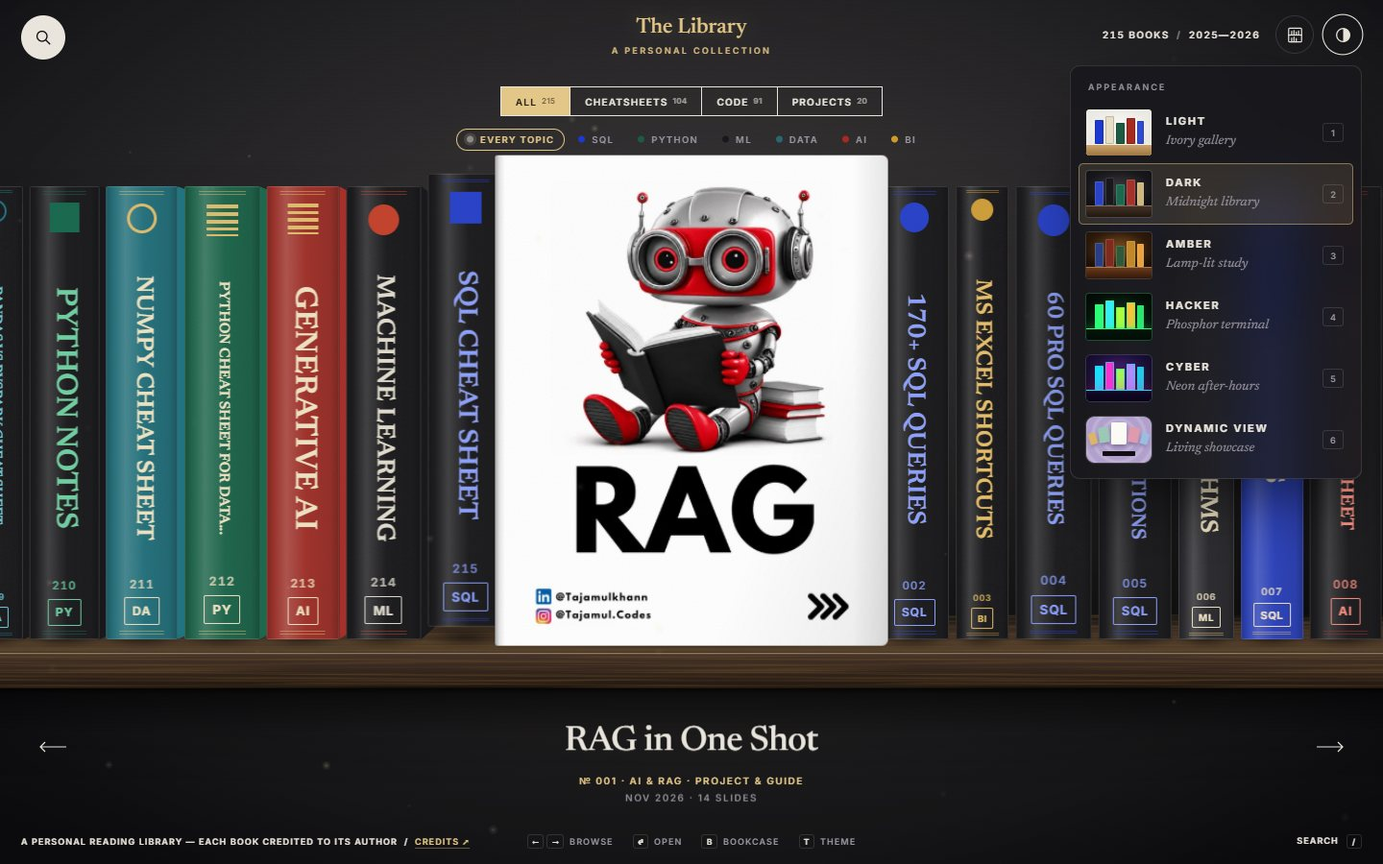
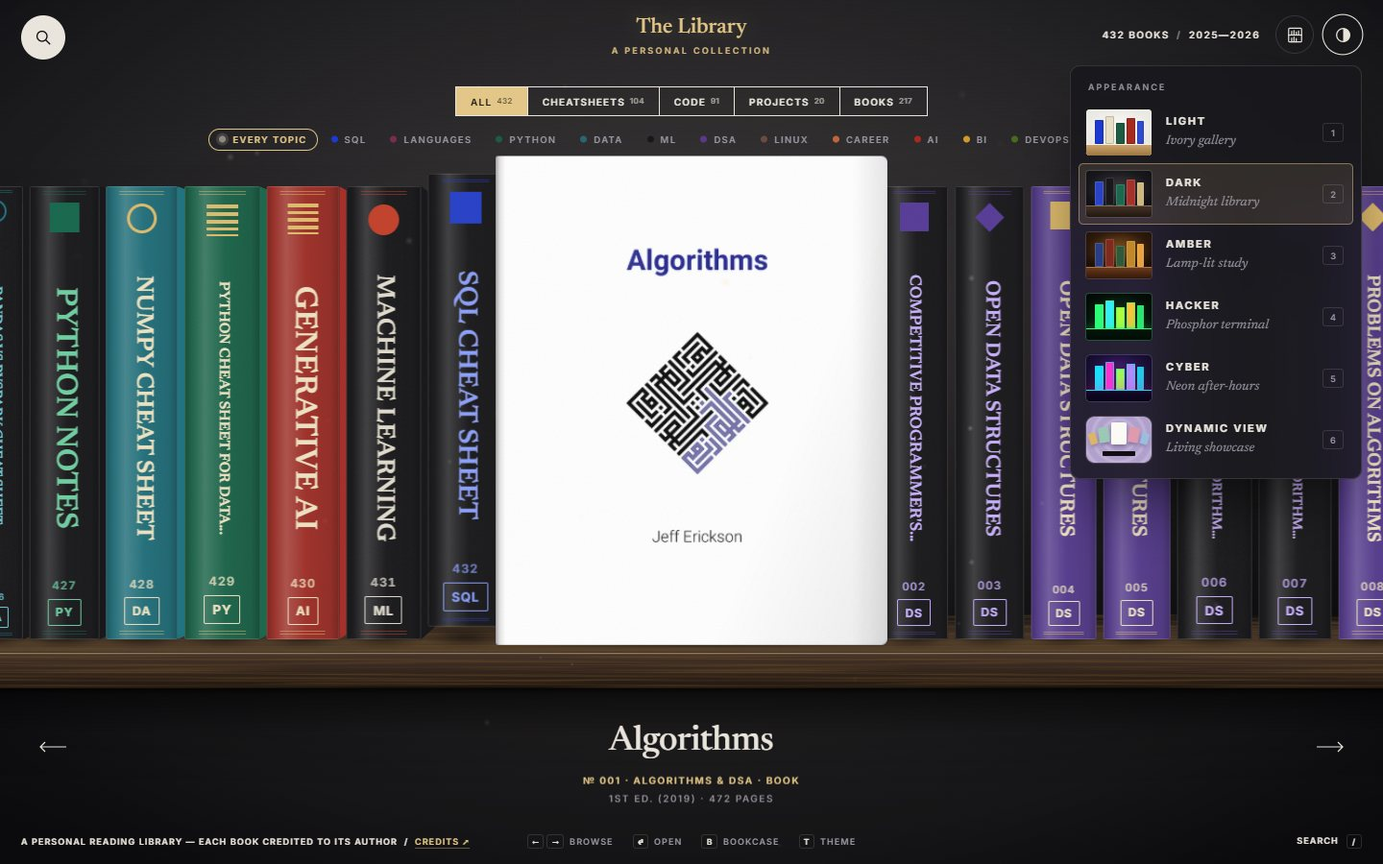
Dynamic View: support the full-length books and polish small screens
- PDF/EPUB books show pages, format and licence on the facts page, read
  screen, stack totals and reading list; the new shelves get room colours
- Phones: the book shrinks to clear long author and licence credits,
  titles on cards and swatches fit without splitting words, and the topic
  menu stays on screen
- The theme picker scrolls on short screens, so all six themes are reachable
- Cover tones and README screenshots regenerated for all 432 books

diff --git a/_site/js/dynamic.js b/_site/js/dynamic.js
@@ -38,18 +38,28 @@ const MONTHS = ['Jan', 'Feb', 'Mar', 'Apr', 'May', 'Jun', 'Jul', 'Aug', 'Sep', '
 const fmtDate = iso => { const [y, m] = iso.split('-'); return MONTHS[+m - 1] + ' ' + y; };
 const store = { get(k) { try { return localStorage.getItem(k); } catch (_) { return null; } }, set(k, v) { try { localStorage.setItem(k, v); } catch (_) {} } };
 const app = () => window.__lib;
-const slidesText = n => n + (n === 1 ? ' slide' : ' slides');
+// full-length books (PDF / EPUB) carry a `doc` record and count pages; the posts count slides
+const count = (n, word) => `${n.toLocaleString('en')} ${word}${n === 1 ? '' : 's'}`;
+const amount = b => count(b.slides, b.doc ? 'page' : 'slide');
+function total(ids) {                                // "472 pages · 24 slides"
+  let pages = 0, slides = 0;
+  ids.forEach(id => { const b = BOOK.get(id); if (b.doc) pages += b.slides; else slides += b.slides; });
+  return [pages && count(pages, 'page'), (slides || !pages) && count(slides, 'slide')].filter(Boolean).join(' · ');
+}
+const tagsOf = b => Array.from(new Set(b.tags));
 const topicInfo = k => (LIB.topics || []).find(t => t.key === k) || { key: k, label: k, chip: k };
 const typeInfo = k => (LIB.types || []).find(t => t.key === k) || { key: k, label: k };
 const coverSrc = b => enc(HIDPI ? b.cover : b.thumb);
 const GENERIC = /^(SQL|AI|BI|ML|Data|Python|Career|General) (Notes|Cheat Sheet|Guide|Book)$/;
-const headline = b => GENERIC.test(b.short) && b.title.length <= 34 ? b.title : b.short;   // big type: the short title, unless it says too little
+// big type: the short title, unless it says too little (a post's generic label, or one edition among several)
+const headline = b => (b.doc ? b.title.length <= 40 : GENERIC.test(b.short) && b.title.length <= 34) ? b.title : b.short;
 const slideSrc = (b, i) => enc(b.dir + '/' + b.files[i]);
 
 /* ── colour: every book gets a room colour, taken from its cover where it has one ── */
 const PALETTE = { lav: '#b3a2cf', gold: '#deb76a', cocoa: '#c7a582', mint: '#9dcbb9', rose: '#e39caf', sky: '#9dbfe2', coral: '#eba58a', sage: '#b7c78e', peri: '#a8b0e1', aqua: '#90c8cc' };
 const CYCLE = ['lav', 'gold', 'mint', 'rose', 'sky', 'cocoa', 'sage', 'coral', 'peri', 'aqua'];
-const BY_TOPIC = { sql: ['sky', 'lav'], python: ['mint', 'gold'], ml: ['lav', 'sage'], ai: ['coral', 'peri'], bi: ['gold', 'cocoa'], data: ['aqua', 'sage'], career: ['sage', 'cocoa'], other: ['cocoa', 'peri'] };
+const BY_TOPIC = { sql: ['sky', 'lav'], python: ['mint', 'gold'], ml: ['lav', 'sage'], ai: ['coral', 'peri'], bi: ['gold', 'cocoa'], data: ['aqua', 'sage'], career: ['sage', 'cocoa'],
+  code: ['rose', 'peri'], dsa: ['peri', 'lav'], devops: ['sage', 'aqua'], linux: ['cocoa', 'gold'], security: ['coral', 'rose'], other: ['cocoa', 'peri'] };
 const family = h => h < 0 ? null : h < 10 || h >= 322 ? 'rose' : h < 30 ? 'coral' : h < 66 ? 'gold' : h < 100 ? 'sage' : h < 172 ? 'mint' : h < 196 ? 'aqua' : h < 218 ? 'sky' : h < 250 ? 'peri' : 'lav';
 function candidates(b) {
   const h = HUES[b.id] || [-1, -1], start = hash(b.id) % CYCLE.length;
@@ -146,7 +156,7 @@ const TEMPLATE = `
   <section class="dv-sec dv-shop" aria-label="Pick up a book">
     <div class="dv-shop-in">
       <h2 class="dv-h2"><span class="ln" style="--i:0"><span>Pick up</span></span><span class="ln" style="--i:1"><span>a book</span></span></h2>
-      <div class="dv-aside"><p>Five books, same sharp notes. Pick your favourite, or stack a few for later.</p><button class="dv-more" type="button">${I.again}Five more</button></div>
+      <div class="dv-aside"><p>Five picks from the shelf. Open your favourite, or stack a few for later.</p><button class="dv-more" type="button">${I.again}Five more</button></div>
       <div class="dv-cards"></div>
     </div>
   </section>
@@ -248,11 +258,8 @@ function measure() {
   const from = head + H * .02 + Math.min(W * .08, H * .042) * 2.32 + 6, to = H - H * .028 - 92;
   const sh = Math.round(narrow ? Math.min(H * .41, W * .62 / .8, (to - from) / 1.15) : Math.min(H * (short ? .64 : .665), W * .35 / .8)), sw = Math.round(sh * .8);
   const sx = Math.round(narrow ? W * .5 : W * .565), sy = Math.round(narrow ? (from + to) / 2 : short ? head + (H - head) * .49 : H * .525);
-  // ...and on the last step it moves up to make room for the title and the Read button
-  const ctaH = 2.24 * clamp(W * .05, 17, 26) + 3.4 * clamp(H * .016, 11, 18) + clamp(H * .066, 48, 70) + 30;
-  const lift = narrow ? Math.max(0, sy + sh * .61 - (H - H * .035 - ctaH)) : 0;
   const k = clamp(window.devicePixelRatio || 1, 1, 2);                    // 3D books are built k times larger (see dynamic.css)
-  Object.assign(M, { W, H, narrow, short, tall, head, cw, ch, carY, goY, base, nameY, sw, sh, sx, sy, lift, k, P: ch * 3.8, spread: narrow ? SPREAD_N : SPREAD_W });
+  Object.assign(M, { W, H, narrow, short, tall, head, cw, ch, carY, goY, base, nameY, sw, sh, sx, sy, k, P: ch * 3.8, spread: narrow ? SPREAD_N : SPREAD_W });
   const st = E.dv.style;
   for (const [name, v] of Object.entries({ dvh: H, head, cw, ch, sw, sh, sx, sy, 'car-y': carY, 'go-y': goY, 'name-y': nameY })) st.setProperty('--' + name, v + 'px');
   st.setProperty('--k', k);
@@ -264,6 +271,15 @@ function measure() {
     for (const [k, v] of Object.entries({ x: x + '%', y: y + '%', s, d: d + 'px', blur: blur + 'px', r: r + 'deg', t: t + 's' })) el.setProperty('--' + k, v);
   });
   tops();
+  fitRead();
+}
+/* narrow screens, last step: the book moves up (and shrinks if it must) to clear the title, credits and Read button */
+function fitRead() {
+  M.lift = 0; M.fit = 1;
+  if (!M.narrow) return;
+  const floor = M.H * .965 - E.readwrap.offsetHeight - 8;                 // laid out even while hidden
+  M.fit = clamp((floor - M.head) / (M.sh * 1.22), .5, 1);                 // 1.22: the tilted book is taller than the book
+  M.lift = Math.max(0, M.sy + M.sh * .61 * M.fit - floor);
 }
 function tops() { M.shopTop = E.shop.offsetTop; M.stackTop = E.stack.offsetTop; M.max = Math.max(0, E.scroll.scrollHeight - E.scroll.clientHeight); }
 
@@ -369,7 +385,7 @@ function setTitle(b, instant) {
   if (live && live.dataset.id === b.id && !instant) return;
   const el = document.createElement('span'); el.className = 'dv-name-l'; el.dataset.id = b.id; el.innerHTML = splitChars(headline(b));
   box.appendChild(el); fitTitle(el);
-  E.sr.textContent = `${b.title}. ${topicInfo(b.topic).label}, ${slidesText(b.slides)}.`;
+  E.sr.textContent = `${b.title}. ${topicInfo(b.topic).label}, ${amount(b)}.`;
   const olds = $$('.dv-name-l', box).filter(x => x !== el);
   olds.forEach(o => o.classList.add('out'));
   if (instant || REDUCE) { olds.forEach(o => o.remove()); return; }
@@ -402,7 +418,7 @@ const CLOSEUPS = ['12% 8%', '88% 38%', '24% 72%', '76% 92%', '50% 52%'];
 function pieces(b, n) {
   const pages = []; for (let i = 1; i < b.files.length && pages.length < 8; i++) pages.push(i);
   if (!pages.length) pages.push(0);
-  const labels = [...b.tags.slice(0, 6).map(t => '#' + t), topicInfo(b.topic).label, slidesText(b.slides), typeInfo(b.type).label];
+  const labels = Array.from(new Set([...tagsOf(b).slice(0, 6).map(t => '#' + t), topicInfo(b.topic).label, amount(b), b.doc ? b.doc.license : typeInfo(b.type).label]));
   const out = []; let p = 0, l = 0, c = 0;
   for (let k = 0; k < n; k++) {
     if (k % 3 === 2 && l < labels.length) out.push({ label: labels[l++] });
@@ -441,11 +457,14 @@ function barcode(seed) {
   return `<svg viewBox="0 0 100 30" preserveAspectRatio="none" fill="currentColor">${r}</svg>`;
 }
 function factsHTML(b) {
-  const rows = [['Slides', b.slides], ['Topic', topicInfo(b.topic).label], ['Format', typeInfo(b.type).label], ['Added', fmtDate(b.date)], ['Shelf no.', pad(b.n, 3)], ['Author', b.author || 'Unknown'], ['Filler', '0 g']];
-  const digits = (String(hash(b.id)) + String(hash(b.title))).slice(0, 12);
+  const d = b.doc, topic = topicInfo(b.topic).label, n = b.slides.toLocaleString('en');
+  const rows = d
+    ? [['Pages', n], ['Topic', topic], ['Format', `${d.fmt} · ${d.mb} MB`], d.edition ? ['Edition', d.edition] : ['Added', fmtDate(b.date)], ['Licence', d.license], ['Author', b.author || 'Unknown'], ['Shelf no.', pad(b.n, 3)]]
+    : [['Slides', n], ['Topic', topic], ['Format', typeInfo(b.type).label], ['Added', fmtDate(b.date)], ['Shelf no.', pad(b.n, 3)], ['Author', b.author || 'Unknown'], ['Filler', '0 g']];
+  const digits = (String(hash(b.id)) + String(hash(b.title))).slice(0, 12), tags = tagsOf(b);
   return `<div class="dv-facts"><p class="f-brand">The Library</p><p class="f-sub">${esc(b.short)}</p>` +
     `<div class="f-label"><b>Book facts</b><small>Serving size: 1 book${b.handle ? ' · ' + esc(b.handle) : ''}</small><dl>${rows.map(([k, v]) => `<div><dt>${k}</dt><dd>${esc(v)}</dd></div>`).join('')}</dl></div>` +
-    (b.tags.length ? `<p class="f-tags">Tags: ${esc(b.tags.join(', '))}</p>` : '') +
+    (tags.length ? `<p class="f-tags">Tags: ${esc(tags.join(', '))}</p>` : '') +
     `<div class="f-code">${barcode(b.id)}<span>${digits}</span></div><p class="f-foot">Packed, not padded</p></div>`;
 }
 function paintFlyer() {
@@ -458,15 +477,16 @@ function paintFlyer() {
 function setInside(b) {
   if (D.keys.inside === b.id) return;
   D.keys.inside = b.id;
-  const tags = b.tags.slice(0, 3).map(t => '#' + t).join(' ') || topicInfo(b.topic).label;
-  E.claims[0].textContent = b.slides === 1 ? 'One page,\nall signal' : 'Real notes,\nfirst';
-  E.claims[1].textContent = 'Packed,\nnot padded';
-  D.caps = [`${tags}\nNothing you can’t learn.`, `${slidesText(b.slides)}, no filler.\nJust the good part.`, '', ''];
+  const d = b.doc, tags = tagsOf(b).slice(0, 3).map(t => '#' + t).join(' ') || topicInfo(b.topic).label;
+  E.claims[0].textContent = d ? 'The whole\nbook, free' : b.slides === 1 ? 'One page,\nall signal' : 'Real notes,\nfirst';
+  E.claims[1].textContent = d ? 'Cover to\ncover' : 'Packed,\nnot padded';     // two short lines: they sit beside the book
+  D.caps = [`${tags}\nNothing you can’t learn.`, d ? `${amount(b)}.\n${d.fmt}, ${d.mb} MB.` : `${amount(b)}, no filler.\nJust the good part.`, '', ''];
   E.cap.textContent = D.caps[Math.max(0, D.step)] || '';
   E.readTitle.textContent = b.title;
-  E.readBy.innerHTML = (b.author ? `By ${esc(b.author)}${b.handle ? ' · ' + esc(b.handle) : ''}` : '') +
-    (b.source ? `<br><a href="${esc(b.source)}" target="_blank" rel="noopener">View on ${esc(b.sourceLabel || 'source')} ↗</a>` : '');
-  E.readBtn.firstElementChild.textContent = b.slides === 1 ? 'Read this page' : `Read all ${b.slides} slides`;
+  E.readBy.innerHTML = (b.author ? `By ${esc(b.author)}${b.handle ? ' · ' + esc(b.handle) : ''}` : '') + (d ? `<br>${esc(d.license)}` : '') +
+    (b.source ? `<br><a href="${esc(b.source)}" target="_blank" rel="noopener">${d ? 'Official download' : 'View on ' + esc(b.sourceLabel || 'source')} ↗</a>` : '');
+  E.readBtn.firstElementChild.textContent = d ? (d.fmt === 'EPUB' ? 'Open the EPUB' : 'Read the book') : b.slides === 1 ? 'Read this page' : `Read all ${b.slides} slides`;
+  fitRead();                                        // long credits take more room under the book
 }
 
 /* ── the pages that orbit the book ─────────────────────── */
@@ -514,8 +534,9 @@ function stage(now) {
   const orb = passing ? 0 : clamp(1 - Math.abs(q - 2) / .8, 0, 1);
   if (flying) {
     const e1 = inOut(t1), e2 = inOut(t2), live = REDUCE ? 0 : e1 * (1 - e2);
-    const rest = M.sy - M.lift * smooth(clamp((q - 2.3) / .6, 0, 1));
-    let x = lerp(M.W / 2, M.sx, e1), y = lerp(M.carY, rest, e1), s = lerp(M.ch / M.sh, 1, e1);
+    const last = smooth(clamp((q - 2.3) / .6, 0, 1));                      // easing into the last step
+    const rest = M.sy - M.lift * last;
+    let x = lerp(M.W / 2, M.sx, e1), y = lerp(M.carY, rest, e1), s = lerp(M.ch / M.sh, lerp(1, M.fit, last), e1);
     let ry = lerp(0, turnAt(q), e1), rz = lerp(0, TILT, e1), rx = 0;
     ry += live * (Math.sin(t * .85) * 5 + Math.sin(t * 1.05) * 30 * orb);       // it never sits perfectly still
     rz += live * Math.sin(t * .67) * 1.2; rx = live * Math.sin(t * .53) * 2.4; y += live * Math.sin(t * 1.25) * H * .007;
@@ -584,7 +605,15 @@ function setShop(force) {
       `<button class="dv-add" type="button" data-pick="${b.id}" aria-pressed="false" aria-label="Add ${esc(b.title)} to your stack">${I.plus}${I.check}</button></article>`;
   }).join('');
   D.hidCard = null;
-  syncPicks(); centreCards();
+  syncPicks(); fitNames('.dv-card h3', 11); centreCards();
+}
+/* a title set in capitals never splits inside a word: shrink its type to fit (CSS ellipsis past the minimum) */
+function fitNames(sel, min) {
+  const els = $$(sel, E.dv);
+  els.forEach(el => { el.style.fontSize = ''; });
+  els.map(el => [el, el.clientWidth, el.scrollWidth]).forEach(([el, room, need]) => {
+    if (room && need > room) el.style.fontSize = Math.max(min, parseFloat(getComputedStyle(el).fontSize) * room / need * .97).toFixed(2) + 'px';
+  });
 }
 function centreCards() {
   const c = E.cards, mid = c.children[c.children.length >> 1];
@@ -600,7 +629,7 @@ function setStack(force) {
     return `<button class="dv-sw" type="button" data-pick="${b.id}" aria-pressed="false" style="--tone:${PALETTE[D.tones[i]]};--i:${k}" title="${esc(b.title)}" aria-label="${esc(b.title)}">` +
       `<span class="dv-sw-t"><img src="${enc(b.thumb)}" alt="" decoding="async" draggable="false"></span><span class="dv-sw-n">${esc(b.short)}</span><span class="dv-sw-r">${I.check}</span></button>`;
   }).join('');
-  syncPicks();
+  syncPicks(); fitNames('.dv-sw-n', 7);
 }
 const need = () => Math.min(3, Math.max(D.list.length, D.picks.filter(Boolean).length));
 function syncPicks() {
@@ -613,7 +642,6 @@ function syncPicks() {
     x.setAttribute('aria-label', b ? `Remove ${b.title}` : 'Empty place');
   });
   $$('[data-pick]', E.dv).forEach(el => el.setAttribute('aria-pressed', D.picks.includes(el.dataset.pick) ? 'true' : 'false'));
-  const slides = chosen.reduce((s, id) => s + BOOK.get(id).slides, 0);
   const label = E.add3.firstElementChild, small = E.add3.lastElementChild;
   E.add3.classList.toggle('done', D.adding);
   if (D.adding) { E.add3.disabled = true; label.textContent = 'Added to your list'; }
@@ -621,7 +649,7 @@ function syncPicks() {
     const ready = n >= want && n > 0;
     E.add3.disabled = !ready;
     label.textContent = ready ? 'Add to reading list' : `Pick ${want - n} more`;
-    small.textContent = slidesText(slides);
+    small.textContent = total(chosen);
   }
   const last = D.lastPick >= 0 && D.picks[D.lastPick] ? D.picks[D.lastPick] : chosen[chosen.length - 1];
   if (!D.adding) E.glow.style.setProperty('--dv-glow', last ? PALETTE[toneOf(last)] : '#6f918a');
@@ -704,7 +732,7 @@ function renderList() {
   E.empty.hidden = D.saved.length > 0;
   E.ul.innerHTML = D.saved.map(id => {
     const b = BOOK.get(id);
-    return `<li><img src="${enc(b.thumb)}" alt="" loading="lazy" decoding="async"><div><b>${esc(b.title)}</b><small>${slidesText(b.slides)} · ${esc(b.author || topicInfo(b.topic).label)}</small></div>` +
+    return `<li><img src="${enc(b.thumb)}" alt="" loading="lazy" decoding="async"><div><b>${esc(b.title)}</b><small>${amount(b)} · ${esc(b.author || topicInfo(b.topic).label)}</small></div>` +
       `<span class="acts"><button type="button" data-read="${id}">Read</button><button type="button" data-remove="${id}" aria-label="Remove ${esc(b.title)}">${I.close}</button></span></li>`;
   }).join('');
 }
@@ -1037,7 +1065,10 @@ function bind() {
     else if (D.on) { D.force = true; D.lastT = performance.now(); }
   });
 }
-function refit() { const el = E.name.querySelector('.dv-name-l:not(.out)'); if (el) fitTitle(el); }
+function refit() {                                    // after a resize, or once the display face has arrived
+  const el = E.name.querySelector('.dv-name-l:not(.out)'); if (el) fitTitle(el);
+  fitNames('.dv-card h3', 11); fitNames('.dv-sw-n', 7);
+}
 
 /* ── on and off ────────────────────────────────────────── */
 function activate(opts = {}) {

diff --git a/_site/js/tones.js b/_site/js/tones.js
@@ -1,1 +1,1 @@
-window.LIBRARY_TONES = {"DfQwnqbE5LB":[357,-1],"DfLxV5qgFgv":[0,-1],"DfFu5hWhDzu":[-1,-1],"DfBXSvDE1jW":[0,-1],"De-ycXiASYl":[359,-1],"De8SPdjoGut":[-1,-1],"De0gt6FiN6h":[0,-1],"Dex8wJygf_w":[359,-1],"DeveFXWAXjI":[1,-1],"Desyo7qgRdy":[359,214],"Def2sWwgbTH":[214,359],"DeQV6e5AWhq":[16,-1],"Dd5NlO7k0o3":[359,-1],"Dd2sRIxAXMK":[214,44],"DdxmDm9ATWO":[0,-1],"DdsXXpmEx1x":[-1,-1],"DdpyekcE7sX":[0,-1],"DdnNw1kEwe4":[359,-1],"Ddko7gOk5M6":[359,-1],"DdgltgRBzOy":[-1,-1],"DdaUAPdE5ye":[359,-1],"DdL3AfgAbw1":[16,-1],"Dc-KfsPgfjo":[359,-1],"Dcz1wJBgaRi":[359,-1],"DculXPAAWO3":[359,-1],"Dcm7BBuEoO8":[-1,-1],"DclO0RcgeUI":[-1,-1],"Dciq7mFBmaz":[-1,-1],"DcZ_jG3k1dL":[37,-1],"DcTObOLgcUx":[357,-1],"DcNHnWOErIb":[359,34],"DcKtrhHgS_9":[174,359],"DcDyZnqAXO8":[357,-1],"DcAStdMgchp":[36,359],"Db4gYeTAeJM":[359,-1],"DbxwjZEBcju":[-1,-1],"DbuawmaAak3":[16,-1],"Dbrpq6MASVk":[-1,-1],"DbpFfRXge3o":[327,35],"DbmhUuQAWpi":[33,-1],"Dbj7Gy1gTcE":[4,-1],"DbhaHy0gXWJ":[2,-1],"DbezaEVgX_T":[359,-1],"DbXEhipAXBA":[359,-1],"DbVTqb3gcLq":[45,359],"DbR3qe2gbXg":[359,-1],"DbFA7WsAQ9i":[25,-1],"DbCa44ckvTi":[41,-1],"Da2KbydhD8Z":[-1,-1],"DawkALjAag-":[204,-1],"Dat35P4AWgk":[24,-1],"Daov6k_gf2V":[359,-1],"DajtHzAAZvh":[-1,-1],"DaeZfNLgeDM":[46,359],"DaZQMvCgVhI":[-1,-1],"DaWstBfAbxt":[207,-1],"DaURh9CgaTT":[359,33],"DaPRdC_RHqW":[-1,-1],"DaLuvRyzmrt":[1,-1],"DaKQ40JAUJh":[359,295],"DaFhqfuBkpb":[-1,-1],"DaCOlsPgXrS":[359,33],"DZ_qvtWgYA2":[359,-1],"DZ9G4KtATWJ":[45,-1],"DZ6up2KgQUV":[-1,-1],"DZwgcMzAYYZ":[-1,-1],"DZeDFnagUwv":[0,-1],"DZTuYipAZt7":[359,226],"DZRJkXyE9lT":[45,359],"DZOluK4gbba":[214,59],"DZNEq6AgVMY":[-1,-1],"DZMABm7gTLl":[359,-1],"DZESEodAeTW":[214,-1],"DY_PTNZAY3I":[-1,-1],"DY_HvG0gWrM":[-1,-1],"DY9P0YNge9W":[131,-1],"DY4ck7uAR0B":[16,-1],"DYyaFTqATML":[-1,-1],"DYwK1mvgPq6":[-1,-1],"DYqhtyvgeUD":[-1,-1],"DYoGS1qgRL3":[214,-1],"DYQ1puCAcoJ":[1,-1],"DYLktrQE69Z":[1,-1],"DYJGz3AE4Wm":[45,214],"DYBq3lAAbDF":[-1,-1],"DYACQwQgYbr":[359,-1],"DX6llQcge_f":[-1,-1],"DXvahbEAXCp":[-1,-1],"DXsyP6NAWCp":[359,-1],"DXnp8QLAdTR":[359,33],"DXjMwtZgZz8":[46,-1],"DXf8RsJgatd":[359,-1],"DXdcNqkgSvW":[-1,-1],"DXa4BiAAQdp":[211,-1],"DXYP5KWEaCl":[2,-1],"DXVoiudgbqC":[-1,-1],"DXOJklogZYO":[359,-1],"DXI14pOgflE":[-1,-1],"DXA9DxCAfS1":[-1,-1],"DW8EKYmASeX":[-1,-1],"DW5YEWdAbGz":[48,-1],"DW2zl6qAcxx":[-1,-1],"DWz-_GsAUp4":[359,-1],"DWstl71AS1e":[-1,-1],"DWns8WpAVSk":[-1,-1],"DWfu6l7Ad5M":[-1,-1],"DWd4ByGDEfF":[324,-1],"DWaVBXBAW0K":[-1,-1],"DWX_9lIgQ0P":[-1,-1],"DWVXrBgAbjt":[205,-1],"DWNlF4JgQCL":[-1,-1],"DWIe0miAdPL":[-1,-1],"DWAk2kVgZvu":[359,-1],"DV99AT-AXft":[-1,-1],"DVzoGtGgSpt":[359,-1],"DVxxskpgXXU":[-1,-1],"DVvZti6geaZ":[359,-1],"DVr6qZEgTNL":[0,-1],"DVp_o1JgQxq":[359,-1],"DVaR-vkAehM":[214,-1],"DVSVUT1gYYN":[221,-1],"DVODIEcAUKo":[-1,-1],"DVNFmbtgTJc":[-1,-1],"DVH4pjuAU7i":[44,-1],"DVATx5LgZV4":[-1,-1],"DU7HNIIE8G7":[214,-1],"DU1--4YgY2-":[-1,-1],"DUngMSIAQH7":[-1,-1],"DUZlcDKktuA":[204,38],"DUXAnccEjRH":[214,-1],"DUj_gtXEjNI":[-1,-1],"DUZsTzLks4B":[-1,-1],"DUPZFo0kq9L":[-1,-1],"DUDatZEgcjL":[214,-1],"DT-aUfAgSFx":[-1,-1],"DT4Ya_ZAXEX":[214,-1],"DTzSWGWAQ2v":[-1,-1],"DTunRAbgTK-":[359,215],"DTmMWo2AeY4":[1,-1],"DTcAs52AcZM":[-1,-1],"DTXNt4YAXpl":[354,-1],"DTKJXUcgW6t":[-1,-1],"DTEvJX0AZzi":[214,45],"DS-BDTZAb8-":[214,35],"DS66rLNgePS":[214,-1],"DS44eJtAcWh":[78,-1],"DS1wlsyAXHw":[214,-1],"DSz_-mNAYNr":[-1,-1],"DSwmkNlAX8_":[214,34],"DSrHph7gWLU":[38,204],"DSj0LVRAfVt":[44,-1],"DShoGh3AYCF":[44,-1],"DScD5x2gcTv":[204,38],"DSUlAyNAZNL":[44,-1],"DSRyyVZgTUp":[214,-1],"DSOQX4sEoDX":[-1,-1],"DSKAZO7Ad1H":[23,133],"DSEi5P1gczX":[214,-1],"DSCnpJ5AdcJ":[16,-1],"DR_3bZYAdvC":[214,158],"DR335gogSMn":[188,86],"DRzhjcogYEW":[202,-1],"DR1GgXjAdqE":[-1,-1],"DRvvwgcgbvb":[-1,-1],"DRtT8ubAdJt":[218,-1],"DRl9nbOgf_O":[34,-1],"DRjDcfbASCf":[215,26],"DRgnj3GgVAM":[359,-1],"DRd8oCeAbUt":[122,-1],"DRcR7OigVxR":[45,-1],"DRTQv9WjEJy":[-1,-1],"DRO194FEpRS":[-1,-1],"DRJLTD8gao7":[241,-1],"DQ81edlgdaC":[-1,-1],"DQ-0xrFgejm":[214,-1],"DQvyqNGAcHw":[214,-1],"DQs52xpgQmb":[215,-1],"DQl-oX3DDGI":[-1,-1],"DQlPzlEgWR_":[214,-1],"DQi4hJPAetw":[214,-1],"DQbEz-QAa6Z":[214,-1],"DQYacQKiV13":[53,-1],"DQVtgUaAdyT":[-1,-1],"DQQwAt_AYN-":[215,-1],"DQOF8pPAf_5":[214,-1],"DQGU72WAaxX":[213,-1],"DQBJdT8ARQ8":[213,33],"DP76b4xAdHF":[-1,-1],"DP5TP1FAcaJ":[215,-1],"DP2ykonAbDT":[214,-1],"DP0LUO6gV_n":[214,-1],"DPu64Q0gaM0":[214,-1],"DPsbQcqgdbX":[215,-1],"DPp6mNuAXt1":[214,-1],"DPiLSTvARWb":[214,27],"DPflM33ga_3":[214,-1],"DPaZr1AE3Gl":[214,-1],"DPX08ALAX-G":[214,-1],"DPWQ7fTAYcs":[214,-1],"DPTq9ncgTPY":[214,27],"DPP6VJVgfVL":[-1,-1],"DPMZSI2gRus":[-1,-1],"DPI63ItgcM9":[214,-1],"DPDRXegAdwA":[44,214],"DPBfg-UgTEV":[214,-1],"DO7cr7tgXmu":[214,-1],"DO43_Q-AdKc":[214,-1],"DO3L_e_AV1x":[214,-1],"DO-CHACAZDN":[-1,-1],"DO0RcRvgW8T":[39,213],"DOxM9UZEuMz":[214,-1],"DOVJU0cAXO2":[214,-1],"DOQSv2gAfYE":[214,-1],"DNDzhWOBKTe":[215,-1],"DM_4L_dhVLK":[214,-1]};
+window.LIBRARY_TONES = {"peff6462d8":[-1,-1],"p5f0e92c97":[-1,-1],"pf506fd984":[-1,-1],"p859627286":[-1,-1],"p0356676bf":[-1,-1],"pd08017240":[-1,-1],"pbf6004a78":[-1,-1],"p053ff7bbd":[-1,-1],"p6a63e4a7e":[-1,-1],"p1ee90e66e":[-1,-1],"p84b4aaa98":[-1,-1],"pe81d0bc3b":[-1,-1],"pd5528f075":[224,-1],"p79eed755e":[-1,-1],"pa54380884":[283,-1],"p7f81e3a43":[-1,-1],"paa672168e":[-1,-1],"p4655b1a83":[-1,-1],"p8e104db36":[-1,-1],"p2057a8032":[-1,-1],"pecbed6a79":[-1,-1],"pcf9aaed6c":[206,-1],"pcb71a4736":[-1,-1],"p64895c132":[209,-1],"pc014c5590":[-1,-1],"p5ef4bcbdc":[-1,-1],"p128ff7e51":[-1,-1],"pc1ab7e72d":[-1,-1],"pa02a8ac0b":[-1,-1],"pfb88b8293":[-1,-1],"p75645b47f":[-1,-1],"pe67ea01af":[-1,-1],"p760c1e03f":[-1,-1],"pa5598778f":[-1,-1],"pde15386e4":[-1,-1],"p95ee8008f":[-1,-1],"pcba7c19b7":[-1,-1],"pac0ad9976":[-1,-1],"p113b7e94e":[-1,-1],"p1d832c107":[-1,-1],"p97eb198c4":[-1,-1],"paf3b035f2":[5,-1],"p9f2e3aeb4":[96,-1],"pc9de888a0":[-1,-1],"pabd239163":[207,-1],"p8aad48277":[-1,-1],"p6b5f8c05e":[-1,-1],"p5fe1e6a59":[358,-1],"p440d819e1":[120,25],"p8902578a5":[50,-1],"p033ca32d6":[208,-1],"pc5abb4549":[204,-1],"paa73246bd":[-1,-1],"p867bb3704":[193,-1],"p2c3bc8403":[193,-1],"p1f9109a98":[349,-1],"paf160259a":[359,-1],"pff908b078":[206,-1],"p6f1a8a03a":[203,-1],"p818c60562":[-1,-1],"pa701a3e08":[45,-1],"p4ec72292f":[203,-1],"pa69e93f5c":[203,-1],"pb20fae443":[204,-1],"pc13acfcc9":[-1,-1],"p376838986":[-1,-1],"pcbf86380a":[26,-1],"p50529e8ca":[-1,-1],"p952ba09f3":[26,-1],"p720a3213e":[14,185],"p6cab806eb":[275,-1],"pbe5779aa4":[32,-1],"pca5dd07bd":[8,-1],"pab07054f5":[197,-1],"p491605be9":[102,-1],"p0a13c5c8f":[-1,-1],"pdcd92c938":[-1,-1],"p90cc409ca":[4,-1],"p480708501":[349,-1],"p041bb04af":[-1,-1],"p526b31236":[44,-1],"p949b22289":[212,-1],"p22ad4a838":[-1,-1],"p65b6801b7":[-1,-1],"p1edc4f457":[-1,-1],"pcc35c5631":[1,-1],"pa2bb432db":[191,-1],"p2d49be0ef":[206,-1],"p304b31fab":[201,-1],"pa1a484cd4":[0,-1],"p1428f9432":[120,-1],"pef050fb9f":[44,-1],"p2fc18dec3":[-1,-1],"p2ea05fd34":[206,-1],"p14744974d":[-1,-1],"pc0552dfd2":[-1,-1],"p0a6b8d3c3":[-1,-1],"pb050a1e2c":[-1,-1],"p614c940ef":[57,-1],"p00e06eeb1":[-1,-1],"p3fd8e82ac":[-1,-1],"peef6c81ac":[-1,-1],"pfd0004900":[-1,-1],"p824594c29":[-1,-1],"p52189196a":[-1,-1],"pa4cca1d68":[-1,-1],"p8263fd218":[207,-1],"pea7fb5556":[-1,-1],"p2bc1f769b":[-1,-1],"p6c9d70c04":[14,-1],"pe5173ce5b":[148,-1],"pebc12eb51":[14,-1],"pecc29f55d":[-1,-1],"pf5564f4fc":[223,-1],"pe446fe20f":[150,-1],"pd5bb55db9":[201,-1],"pf8d8f3f54":[-1,-1],"pc83262332":[-1,-1],"pd75d0759a":[-1,-1],"pe9661f8a0":[26,-1],"p4bba0191e":[215,-1],"p91cabe73f":[-1,-1],"p5acda7b07":[-1,-1],"p299c0ce17":[232,-1],"p6be55b6c2":[-1,-1],"p5f88b61e8":[-1,-1],"p45f4c2b7e":[-1,-1],"p37c4bffd9":[202,15],"p274f5cdc5":[46,-1],"pc2dbd35db":[-1,-1],"p968177f28":[204,-1],"pf1d24467a":[-1,-1],"pefc8459c2":[-1,-1],"pfc51eddaf":[-1,-1],"pe8ae4c9f2":[-1,-1],"p39240195b":[-1,-1],"pa1651c97c":[-1,-1],"p9b03f2b19":[188,-1],"p9a4e888b0":[-1,-1],"pf68db4dfd":[195,-1],"pb752bfd60":[32,-1],"p17d8a11d5":[-1,-1],"p01c8cc35b":[-1,-1],"p95807cec8":[-1,-1],"pc6785d68d":[-1,-1],"p8b238085f":[-1,-1],"p46a1e4c50":[-1,-1],"p5e194eb58":[206,-1],"p7cc2a468f":[26,-1],"p2aa741416":[26,-1],"pe33caab19":[26,-1],"p83a66e179":[26,-1],"pa3a24c8c7":[26,-1],"pd237e9557":[204,-1],"p51ff1b862":[197,-1],"peee522968":[49,213],"p7f058c1eb":[49,216],"p5a5f8ed12":[253,78],"p641214572":[-1,-1],"p4b89f53be":[218,-1],"p4d777eae2":[45,359],"pf78c9b1ac":[9,-1],"peac0b0dbf":[39,-1],"pf127b2a7f":[-1,-1],"p64762633d":[-1,-1],"pedd9d5ddd":[-1,-1],"p4e6391f08":[-1,-1],"p58394fb7b":[-1,-1],"pdf233ee2a":[-1,-1],"pca0a6ea0a":[-1,-1],"p0c5c84997":[-1,-1],"p9b5add868":[-1,-1],"ped81bbf73":[-1,-1],"pdfda406f6":[43,-1],"p1ea0553b5":[-1,-1],"p20491b51e":[-1,-1],"p6bc99df59":[211,0],"p9466f0d85":[-1,-1],"p5c17aff31":[-1,-1],"p79e1789a8":[-1,-1],"pe42b6df13":[-1,-1],"pb3e3db5ec":[-1,-1],"p9ca1f0c40":[-1,-1],"p2db4e8c91":[195,-1],"p596d1cf5f":[-1,-1],"paea10ce84":[0,-1],"paec8f4558":[-1,-1],"pb4e96e3ba":[4,-1],"pfa14ee0c9":[245,-1],"pf081d5505":[212,-1],"p5c5d700b2":[208,-1],"p573da7260":[-1,-1],"pc2f7fc3b5":[-1,-1],"p68c01b321":[-1,-1],"p8e35fc135":[-1,-1],"pde95a38eb":[221,34],"pb7f908daa":[-1,-1],"pf14c70783":[-1,-1],"pf1680de3b":[-1,-1],"p89fd7b002":[223,18],"p1bc8c2801":[-1,-1],"pdbdd59ad9":[-1,-1],"p7bd39a4e3":[-1,-1],"p5b52fa702":[-1,-1],"p87921c4a9":[-1,-1],"p79898948e":[-1,-1],"p72a44dabb":[194,45],"p23fd79227":[-1,-1],"p8769f607e":[-1,-1],"p271c13f73":[-1,-1],"p8e475479c":[-1,-1],"p42c1b14ad":[280,-1],"p6977f6b00":[-1,-1],"pe147e77d5":[-1,-1],"p12e7bfc1a":[-1,-1],"pc04337b1d":[209,-1],"p72329bbeb":[48,-1],"DfQwnqbE5LB":[357,-1],"DfLxV5qgFgv":[0,-1],"DfFu5hWhDzu":[-1,-1],"DfBXSvDE1jW":[0,-1],"De-ycXiASYl":[359,-1],"De8SPdjoGut":[-1,-1],"De0gt6FiN6h":[0,-1],"Dex8wJygf_w":[359,-1],"DeveFXWAXjI":[1,-1],"Desyo7qgRdy":[359,214],"Def2sWwgbTH":[214,359],"DeQV6e5AWhq":[16,-1],"Dd5NlO7k0o3":[359,-1],"Dd2sRIxAXMK":[214,44],"DdxmDm9ATWO":[0,-1],"DdsXXpmEx1x":[-1,-1],"DdpyekcE7sX":[0,-1],"DdnNw1kEwe4":[359,-1],"Ddko7gOk5M6":[359,-1],"DdgltgRBzOy":[-1,-1],"DdaUAPdE5ye":[359,-1],"DdL3AfgAbw1":[16,-1],"Dc-KfsPgfjo":[359,-1],"Dcz1wJBgaRi":[359,-1],"DculXPAAWO3":[359,-1],"Dcm7BBuEoO8":[-1,-1],"DclO0RcgeUI":[-1,-1],"Dciq7mFBmaz":[-1,-1],"DcZ_jG3k1dL":[37,-1],"DcTObOLgcUx":[357,-1],"DcNHnWOErIb":[359,34],"DcKtrhHgS_9":[174,359],"DcDyZnqAXO8":[357,-1],"DcAStdMgchp":[36,359],"Db4gYeTAeJM":[359,-1],"DbxwjZEBcju":[-1,-1],"DbuawmaAak3":[16,-1],"Dbrpq6MASVk":[-1,-1],"DbpFfRXge3o":[327,35],"DbmhUuQAWpi":[33,-1],"Dbj7Gy1gTcE":[4,-1],"DbhaHy0gXWJ":[2,-1],"DbezaEVgX_T":[359,-1],"DbXEhipAXBA":[359,-1],"DbVTqb3gcLq":[45,359],"DbR3qe2gbXg":[359,-1],"DbFA7WsAQ9i":[25,-1],"DbCa44ckvTi":[41,-1],"Da2KbydhD8Z":[-1,-1],"DawkALjAag-":[204,-1],"Dat35P4AWgk":[24,-1],"Daov6k_gf2V":[359,-1],"DajtHzAAZvh":[-1,-1],"DaeZfNLgeDM":[46,359],"DaZQMvCgVhI":[-1,-1],"DaWstBfAbxt":[207,-1],"DaURh9CgaTT":[359,33],"DaPRdC_RHqW":[-1,-1],"DaLuvRyzmrt":[1,-1],"DaKQ40JAUJh":[359,295],"DaFhqfuBkpb":[-1,-1],"DaCOlsPgXrS":[359,33],"DZ_qvtWgYA2":[359,-1],"DZ9G4KtATWJ":[45,-1],"DZ6up2KgQUV":[-1,-1],"DZwgcMzAYYZ":[-1,-1],"DZeDFnagUwv":[0,-1],"DZTuYipAZt7":[359,226],"DZRJkXyE9lT":[45,359],"DZOluK4gbba":[214,59],"DZNEq6AgVMY":[-1,-1],"DZMABm7gTLl":[359,-1],"DZESEodAeTW":[214,-1],"DY_PTNZAY3I":[-1,-1],"DY_HvG0gWrM":[-1,-1],"DY9P0YNge9W":[131,-1],"DY4ck7uAR0B":[16,-1],"DYyaFTqATML":[-1,-1],"DYwK1mvgPq6":[-1,-1],"DYqhtyvgeUD":[-1,-1],"DYoGS1qgRL3":[214,-1],"DYQ1puCAcoJ":[1,-1],"DYLktrQE69Z":[1,-1],"DYJGz3AE4Wm":[45,214],"DYBq3lAAbDF":[-1,-1],"DYACQwQgYbr":[359,-1],"DX6llQcge_f":[-1,-1],"DXvahbEAXCp":[-1,-1],"DXsyP6NAWCp":[359,-1],"DXnp8QLAdTR":[359,33],"DXjMwtZgZz8":[46,-1],"DXf8RsJgatd":[359,-1],"DXdcNqkgSvW":[-1,-1],"DXa4BiAAQdp":[211,-1],"DXYP5KWEaCl":[2,-1],"DXVoiudgbqC":[-1,-1],"DXOJklogZYO":[359,-1],"DXI14pOgflE":[-1,-1],"DXA9DxCAfS1":[-1,-1],"DW8EKYmASeX":[-1,-1],"DW5YEWdAbGz":[48,-1],"DW2zl6qAcxx":[-1,-1],"DWz-_GsAUp4":[359,-1],"DWstl71AS1e":[-1,-1],"DWns8WpAVSk":[-1,-1],"DWfu6l7Ad5M":[-1,-1],"DWd4ByGDEfF":[324,-1],"DWaVBXBAW0K":[-1,-1],"DWX_9lIgQ0P":[-1,-1],"DWVXrBgAbjt":[205,-1],"DWNlF4JgQCL":[-1,-1],"DWIe0miAdPL":[-1,-1],"DWAk2kVgZvu":[359,-1],"DV99AT-AXft":[-1,-1],"DVzoGtGgSpt":[359,-1],"DVxxskpgXXU":[-1,-1],"DVvZti6geaZ":[359,-1],"DVr6qZEgTNL":[0,-1],"DVp_o1JgQxq":[359,-1],"DVaR-vkAehM":[214,-1],"DVSVUT1gYYN":[221,-1],"DVODIEcAUKo":[-1,-1],"DVNFmbtgTJc":[-1,-1],"DVH4pjuAU7i":[44,-1],"DVATx5LgZV4":[-1,-1],"DU7HNIIE8G7":[214,-1],"DU1--4YgY2-":[-1,-1],"DUngMSIAQH7":[-1,-1],"DUZlcDKktuA":[204,38],"DUXAnccEjRH":[214,-1],"DUj_gtXEjNI":[-1,-1],"DUZsTzLks4B":[-1,-1],"DUPZFo0kq9L":[-1,-1],"DUDatZEgcjL":[214,-1],"DT-aUfAgSFx":[-1,-1],"DT4Ya_ZAXEX":[214,-1],"DTzSWGWAQ2v":[-1,-1],"DTunRAbgTK-":[359,215],"DTmMWo2AeY4":[1,-1],"DTcAs52AcZM":[-1,-1],"DTXNt4YAXpl":[354,-1],"DTKJXUcgW6t":[-1,-1],"DTEvJX0AZzi":[214,45],"DS-BDTZAb8-":[214,35],"DS66rLNgePS":[214,-1],"DS44eJtAcWh":[78,-1],"DS1wlsyAXHw":[214,-1],"DSz_-mNAYNr":[-1,-1],"DSwmkNlAX8_":[214,34],"DSrHph7gWLU":[38,204],"DSj0LVRAfVt":[44,-1],"DShoGh3AYCF":[44,-1],"DScD5x2gcTv":[204,38],"DSUlAyNAZNL":[44,-1],"DSRyyVZgTUp":[214,-1],"DSOQX4sEoDX":[-1,-1],"DSKAZO7Ad1H":[23,133],"DSEi5P1gczX":[214,-1],"DSCnpJ5AdcJ":[16,-1],"DR_3bZYAdvC":[214,158],"DR335gogSMn":[188,86],"DRzhjcogYEW":[202,-1],"DR1GgXjAdqE":[-1,-1],"DRvvwgcgbvb":[-1,-1],"DRtT8ubAdJt":[218,-1],"DRl9nbOgf_O":[34,-1],"DRjDcfbASCf":[215,26],"DRgnj3GgVAM":[359,-1],"DRd8oCeAbUt":[122,-1],"DRcR7OigVxR":[45,-1],"DRTQv9WjEJy":[-1,-1],"DRO194FEpRS":[-1,-1],"DRJLTD8gao7":[241,-1],"DQ81edlgdaC":[-1,-1],"DQ-0xrFgejm":[214,-1],"DQvyqNGAcHw":[214,-1],"DQs52xpgQmb":[215,-1],"DQl-oX3DDGI":[-1,-1],"DQlPzlEgWR_":[214,-1],"DQi4hJPAetw":[214,-1],"DQbEz-QAa6Z":[214,-1],"DQYacQKiV13":[53,-1],"DQVtgUaAdyT":[-1,-1],"DQQwAt_AYN-":[215,-1],"DQOF8pPAf_5":[214,-1],"DQGU72WAaxX":[213,-1],"DQBJdT8ARQ8":[213,33],"DP76b4xAdHF":[-1,-1],"DP5TP1FAcaJ":[215,-1],"DP2ykonAbDT":[214,-1],"DP0LUO6gV_n":[214,-1],"DPu64Q0gaM0":[214,-1],"DPsbQcqgdbX":[215,-1],"DPp6mNuAXt1":[214,-1],"DPiLSTvARWb":[214,27],"DPflM33ga_3":[214,-1],"DPaZr1AE3Gl":[214,-1],"DPX08ALAX-G":[214,-1],"DPWQ7fTAYcs":[214,-1],"DPTq9ncgTPY":[214,27],"DPP6VJVgfVL":[-1,-1],"DPMZSI2gRus":[-1,-1],"DPI63ItgcM9":[214,-1],"DPDRXegAdwA":[44,214],"DPBfg-UgTEV":[214,-1],"DO7cr7tgXmu":[214,-1],"DO43_Q-AdKc":[214,-1],"DO3L_e_AV1x":[214,-1],"DO-CHACAZDN":[-1,-1],"DO0RcRvgW8T":[39,213],"DOxM9UZEuMz":[214,-1],"DOVJU0cAXO2":[214,-1],"DOQSv2gAfYE":[214,-1],"DNDzhWOBKTe":[215,-1],"DM_4L_dhVLK":[214,-1]};

diff --git a/_site/css/dynamic.css b/_site/css/dynamic.css
@@ -94,7 +94,7 @@ html[data-theme="dynamic"] body.in-reader .dv-nav{opacity:0;visibility:hidden;po
 .dv-listbtn .dv-badge.on{opacity:1;transform:none}
 
 .dv-topics{position:relative}
-.dv-menu{position:absolute;right:0;top:calc(100% + 12px);z-index:72;width:236px;max-height:min(440px,70vh);overflow-y:auto;padding:6px;border-radius:18px;background:var(--glass);border:1px solid var(--glass-line);color:#fdf8ee;
+.dv-menu{position:absolute;right:0;top:calc(100% + 12px);z-index:72;width:236px;max-height:calc((100vh - 112px) / var(--dvz,1));overflow-y:auto;overscroll-behavior:contain;padding:6px;border-radius:18px;background:var(--glass);border:1px solid var(--glass-line);color:#fdf8ee;
   -webkit-backdrop-filter:blur(22px);backdrop-filter:blur(22px);box-shadow:0 34px 70px -24px rgba(10,4,20,.65);opacity:0;visibility:hidden;transform:translateY(-8px) scale(.97);transform-origin:100% 0;transition:opacity .25s,transform .5s var(--ease),visibility 0s .5s}
 .dv-menu.open{opacity:1;visibility:visible;transform:none;transition:opacity .25s,transform .5s var(--ease),visibility 0s}
 .dv-menu button{display:flex;align-items:center;gap:10px;width:100%;padding:11px 12px;border-radius:12px;font:600 12.5px/1 var(--sans);color:#fdf8ee;text-align:left;transition:background .2s}
@@ -259,11 +259,11 @@ html[data-theme="dynamic"] body.in-reader .dv-nav{opacity:0;visibility:hidden;po
 .dv-more svg{width:14px;height:14px;transition:transform .7s var(--ease)}
 .dv-more:hover svg{transform:rotate(180deg)}
 .dv-cards{grid-column:1/-1;align-self:end;display:grid;grid-template-columns:repeat(var(--n,5),calc((100% - 5.2vw) / 5));justify-content:center;gap:1.3vw;margin-top:calc(var(--dvh) * .03)}
-.dv-card{--h:clamp(230px,calc(var(--dvh) * .49),34vw);position:relative;height:var(--h);display:flex;flex-direction:column;align-items:center;padding:calc(var(--h) * .065) 7% calc(var(--h) * .035);border-radius:18px;background:var(--tone);
+.dv-card{--h:clamp(230px,calc(var(--dvh) * .49),34vw);position:relative;min-width:0;height:var(--h);display:flex;flex-direction:column;align-items:center;padding:calc(var(--h) * .065) 7% calc(var(--h) * .035);border-radius:18px;background:var(--tone);
   opacity:0;transform:translateY(22%);transition:opacity .3s,transform .6s var(--ease),box-shadow .35s}
 .dv-sec.in .dv-card{opacity:1;transform:none;transition:opacity .5s calc(var(--i) * 80ms + 60ms),transform .9s var(--ease) calc(var(--i) * 80ms + 60ms),box-shadow .35s}
 .dv-card:hover{box-shadow:0 30px 50px -30px rgba(60,35,20,.6)}
-.dv-card h3{min-height:2.16em;width:100%;display:-webkit-box;-webkit-line-clamp:2;-webkit-box-orient:vertical;overflow:hidden;overflow-wrap:anywhere;font:900 clamp(12px,min(2.3vh,1.38vw),27px)/1.08 var(--dv-display);text-transform:uppercase;text-align:center;color:#fff;text-shadow:0 1px 14px rgba(60,30,24,.28)}
+.dv-card h3{min-height:calc(clamp(12px,min(2.3vh,1.38vw),27px) * 2.16);width:100%;display:-webkit-box;-webkit-line-clamp:2;-webkit-box-orient:vertical;overflow:hidden;overflow-wrap:normal;text-overflow:ellipsis;font:900 clamp(12px,min(2.3vh,1.38vw),27px)/1.08 var(--dv-display);text-transform:uppercase;text-align:center;color:#fff;text-shadow:0 1px 14px rgba(60,30,24,.28)}
 .dv-card-open{flex:1;width:100%;min-height:0;display:grid;place-items:center;border-radius:12px}
 .dv-card-cv{position:relative;display:block;width:min(78%,calc(var(--h) * .5));aspect-ratio:4/5;border-radius:3px 7px 7px 3px;overflow:hidden;background:#fff center/cover no-repeat;
   box-shadow:1px 1px 0 #efe8d8,2px 2px 0 #cfc6ae,3px 3px 0 #efe8d8,0 22px 28px -16px rgba(50,28,20,.6);transition:translate .55s var(--ease),rotate .55s var(--ease),scale .55s var(--ease)}
@@ -294,7 +294,7 @@ html[data-theme="dynamic"] body.in-reader .dv-nav{opacity:0;visibility:hidden;po
 .dv-sw:hover .dv-sw-t{translate:0 -5px}
 .dv-sw[aria-pressed="true"] .dv-sw-t{box-shadow:0 0 0 2px #0a0c11,0 0 0 3.5px var(--tone)}
 .dv-sw-t img{width:50%;aspect-ratio:4/5;object-fit:cover;border-radius:2px 4px 4px 2px;box-shadow:0 8px 12px -6px rgba(20,8,10,.6)}
-.dv-sw-n{display:-webkit-box;-webkit-line-clamp:2;-webkit-box-orient:vertical;overflow:hidden;overflow-wrap:anywhere;width:100%;min-height:2.5em;margin-top:9px;font:800 clamp(8px,1.35vh,15px)/1.25 var(--sans);text-transform:uppercase;text-align:center}
+.dv-sw-n{display:-webkit-box;-webkit-line-clamp:2;-webkit-box-orient:vertical;overflow:hidden;overflow-wrap:normal;text-overflow:ellipsis;width:100%;min-height:calc(clamp(8px,1.35vh,15px) * 2.5);margin-top:9px;font:800 clamp(8px,1.35vh,15px)/1.25 var(--sans);text-transform:uppercase;text-align:center}
 .dv-sw-r{width:clamp(18px,2.6vh,28px);height:clamp(18px,2.6vh,28px);margin-top:7px;display:grid;place-items:center;border-radius:50%;border:1px solid rgba(247,243,234,.55);color:#0a0c11;transition:background .3s,border-color .3s}
 .dv-sw-r svg{width:12px;height:12px;opacity:0;transform:scale(.4);transition:opacity .25s,transform .45s var(--ease)}
 .dv-sw[aria-pressed="true"] .dv-sw-r{background:#fdf8ee;border-color:#fdf8ee}
@@ -379,9 +379,9 @@ html[data-theme="dynamic"] body.in-reader .dv-nav{opacity:0;visibility:hidden;po
 .tprev[data-theme="dynamic"] .pv-plank{left:17px;right:17px;bottom:7px;height:5px;border-radius:1px;background:#120e14;box-shadow:none}
 
 /* ═══════════ big screens: the chrome grows with the stage ═══════════ */
-@media (min-width:1500px) and (min-height:800px){html[data-theme="dynamic"] body:not(.in-reader) .top{zoom:1.14}}
-@media (min-width:1750px) and (min-height:920px){html[data-theme="dynamic"] body:not(.in-reader) .top{zoom:1.28}}
-@media (min-width:2400px) and (min-height:1300px){html[data-theme="dynamic"] body:not(.in-reader) .top{zoom:1.6}}
+@media (min-width:1500px) and (min-height:800px){html[data-theme="dynamic"] body:not(.in-reader) .top{--dvz:1.14;zoom:var(--dvz)}}
+@media (min-width:1750px) and (min-height:920px){html[data-theme="dynamic"] body:not(.in-reader) .top{--dvz:1.28;zoom:var(--dvz)}}
+@media (min-width:2400px) and (min-height:1300px){html[data-theme="dynamic"] body:not(.in-reader) .top{--dvz:1.6;zoom:var(--dvz)}}
 
 /* ═══════════ narrow and portrait screens ═══════════ */
 .dv.narrow .dv-auto{right:auto;left:14px}
@@ -403,7 +403,7 @@ html[data-theme="dynamic"] body.in-reader .dv-nav{opacity:0;visibility:hidden;po
 .dv.narrow .dv-cards{display:flex;align-self:stretch;margin:auto -20px 0;padding:18px 18vw 8px;gap:14px;overflow-x:auto;overscroll-behavior-x:contain;scroll-snap-type:x mandatory;scrollbar-width:none}
 .dv.narrow .dv-cards::-webkit-scrollbar{display:none}
 .dv.narrow .dv-card{--h:min(calc(var(--dvh) * .46),104vw);flex:0 0 64vw;max-width:360px;scroll-snap-align:center}
-.dv.narrow .dv-card h3{font-size:clamp(15px,4.8vw,24px)}
+.dv.narrow .dv-card h3{font-size:clamp(15px,4.8vw,24px);min-height:calc(clamp(15px,4.8vw,24px) * 2.16)}
 
 .dv.narrow .dv-stk-in{align-items:stretch;padding:calc(var(--head) + 8px) 18px 22px}
 .dv.narrow .dv-stk-l{display:contents}
@@ -417,6 +417,7 @@ html[data-theme="dynamic"] body.in-reader .dv-nav{opacity:0;visibility:hidden;po
 .dv.narrow .dv-x{--x:28px}
 .dv.narrow .dv-swatches{order:3;justify-content:center;gap:8px;margin-top:6px}
 .dv.narrow .dv-sw{--sz:min(17vw,calc(var(--dvh) * .092),92px)}
+.dv.narrow .dv-sw-n{width:calc(100% + 6px)}
 .dv.narrow .dv-add3{order:4;align-self:center;margin-top:16px}
 .dv.narrow .dv-hint{order:5;text-align:center;margin-top:8px}
 .dv.narrow .dv-credit{order:6;text-align:center;padding-top:14px}
@@ -441,6 +442,7 @@ html[data-theme="dynamic"] body.in-reader .dv-nav{opacity:0;visibility:hidden;po
 }
 @media (max-width:599px){
   html[data-theme="dynamic"] .brand{display:none}
+  .dv-menu{position:fixed;top:60px;left:12px;right:12px;width:auto;max-height:calc(100vh - 80px);max-height:calc(100dvh - 80px)}
 }
 @media (max-width:359px){
   html[data-theme="dynamic"] .top-r{gap:4px}
@@ -464,12 +466,14 @@ html[data-theme="dynamic"] body.in-reader .dv-nav{opacity:0;visibility:hidden;po
   .dv-stepper{--sz:32px}
   .dv-cap{display:none}
   .dv-card{--h:calc(var(--dvh) * .46);min-height:0;padding-top:10px}
-  .dv-card h3{font-size:11.5px}
+  .dv-card h3{font-size:11.5px;min-height:calc(11.5px * 2.16)}
   .dv-card-cv{width:min(70%,calc(var(--h) * .44))}
   .dv-add{width:28px;height:28px;right:7px;bottom:7px}
   .dv-add svg{width:13px;height:13px}
   .dv-aside p{display:none}
   .dv-readwrap{gap:10px}
+  .dv.short .dv-swatches{margin-top:10px;gap:12px}
+  .dv.short .dv-sw{--sz:min(calc(var(--dvh) * .16),7.4vw)}
 }
 @media (prefers-reduced-motion:reduce){
   .dv-float>span{animation:none!important}

diff --git a/_site/css/themes.css b/_site/css/themes.css
@@ -239,6 +239,7 @@
 /* ═══════════════════ theme picker (header) ═══════════════════ */
 .theme{position:relative}
 .tpanel{position:absolute;top:calc(100% + 12px);right:0;z-index:70;width:304px;padding:8px;border-radius:calc(var(--r) + 10px);
+  max-height:calc(100vh - 80px);max-height:calc(100dvh - 80px);overflow-y:auto;overscroll-behavior:contain;scrollbar-width:thin;   /* six themes: scroll on short screens */
   background:var(--glass);border:1px solid var(--glass-line);-webkit-backdrop-filter:blur(24px) saturate(1.3);backdrop-filter:blur(24px) saturate(1.3);
   box-shadow:0 34px 70px -22px rgba(var(--shadow),.65),0 0 0 1px rgba(var(--shadow),.04);
   opacity:0;visibility:hidden;transform:translateY(-8px) scale(.97);transform-origin:100% 0;

diff --git a/index.html b/index.html
@@ -34,7 +34,7 @@
 
 <link rel="stylesheet" href="_site/css/style.css?v=3">
 <link rel="stylesheet" href="_site/css/shelf.css?v=3">
-<link rel="stylesheet" href="_site/css/themes.css?v=3">
+<link rel="stylesheet" href="_site/css/themes.css?v=4">
 <link rel="stylesheet" href="_site/css/dynamic.css?v=4">
 <noscript><style>.loader{display:none!important}html.is-loading .top,html.is-loading .filters,html.is-loading .foot,html.is-loading .now-wrap{opacity:1!important}</style></noscript>
 </head>

diff --git a/README.md b/README.md
@@ -13,7 +13,7 @@ A personal reading library: a motion-rich **3D bookshelf**, and a full wooden **
 - **Dynamic View** (described below) turns the library into a product-style showcase with four screens.
 - **A book page**, a **slide reader** (swipe, tap to zoom, drag to pan, thumbnails) and instant **search** (`/` or `Ctrl`+`K`).
 - **Proper history.** The address bar always matches the view, so links to a book (`#/<id>`) or a slide (`#/<id>/read/3`) work, and Back, Forward, `Esc` and the round button all unwind one level at a time.
-- **Built for everyone.** Keyboard-first, `prefers-reduced-motion` respected, UI text meets WCAG AA contrast in every theme, works on phones and tablets, and works offline straight from `index.html`.
+- **Built for everyone.** Keyboard-first, `prefers-reduced-motion` respected, UI text meets WCAG AA contrast in the five shelf themes, works on phones and tablets, and works offline straight from `index.html`.
 
 | Light | Dark | Amber |
 | --- | --- | --- |
@@ -34,7 +34,7 @@ A personal reading library: a motion-rich **3D bookshelf**, and a full wooden **
 | Screen | What happens |
 | --- | --- |
 | **Books** | Books ride a curved, endless carousel. The room takes the colour of the book in front, the title swaps letter by letter, and a few of its pages float around. Drag, flick, click a neighbour, use the arrow keys or switch on *Autoplay*. |
-| **Inside** | Scroll once and that book leaves the row and turns in space: the cover, then *book facts* on the back, then its pages in orbit, then a *Read* button. |
+| **Inside** | Scroll once and that book leaves the row and turns in space: the cover, then *book facts* on the back (slides or pages, format, licence), then its pages in orbit, then a *Read* button that opens the reader. |
 | **Picks** | The book lands in a row of five. Open one, add it to your stack, or ask for *five more*. |
 | **Stack** | Choose three and send them to your **reading list** (kept in your browser; open it from the bookmark button, or press `L`). |
 
@@ -59,7 +59,7 @@ They were collected from his public Instagram posts as a personal reading librar
 
 - [GSAP](https://gsap.com/) for animation (GreenSock standard licence)
 - [Newsreader](https://fonts.google.com/specimen/Newsreader) (Production Type) and [Inter](https://rsms.me/inter/) (Rasmus Andersson), both under the SIL Open Font License
-- *Library Display*, the wide headline face of the Dynamic View: Inter at weight 900, stretched by `tools/make_display_font.py` and shared under the same licence
+- *Library Display*, the wide headline face of the Dynamic View: Inter at weight 900, stretched by `_site/tools/make_display_font.py` and shared under the same licence
 - Python + [Pillow](https://python-pillow.org/) to build the aligned 4:5 thumbnails, the catalogue and the cover colours, and [PyMuPDF](https://pymupdf.readthedocs.io/) to render book covers and preview pages from PDFs
 - Site design and code by [Rahul9994](https://github.com/Rahul9994), built with help from Claude (Anthropic)
 
@@ -130,7 +130,7 @@ The *Books* filter holds 217 free programming books, catalogued in `_site/tools/
 - **Read the book** opens the PDF in the browser's own viewer inside the reader, at the page you clicked. *Open PDF* opens it in a new tab.
 - **EPUB** books can't be shown by browsers, so the reader offers the file to open in an e-reader app.
 - **When `Books/` is not there**, as on GitHub Pages, the reader links to the book's official free download instead.
-- New shelves: *Algorithms & DSA*, *Programming languages*, *DevOps & Docker*, *Linux* and *Security & hacking*, with their own colours in all five themes. Python, ML, SQL, data and interview books join the existing shelves.
+- New shelves: *Algorithms & DSA*, *Programming languages*, *DevOps & Docker*, *Linux* and *Security & hacking*, with their own colours in all five shelf themes. Python, ML, SQL, data and interview books join the existing shelves.
 
 To add another PDF book: put the file under `Books/`, add an entry to `books_catalog.json` (copy an existing one; `topic` is one of the shelf keys), then run `python _site/tools/build_library.py` (needs `pip install pymupdf pillow`).
 
